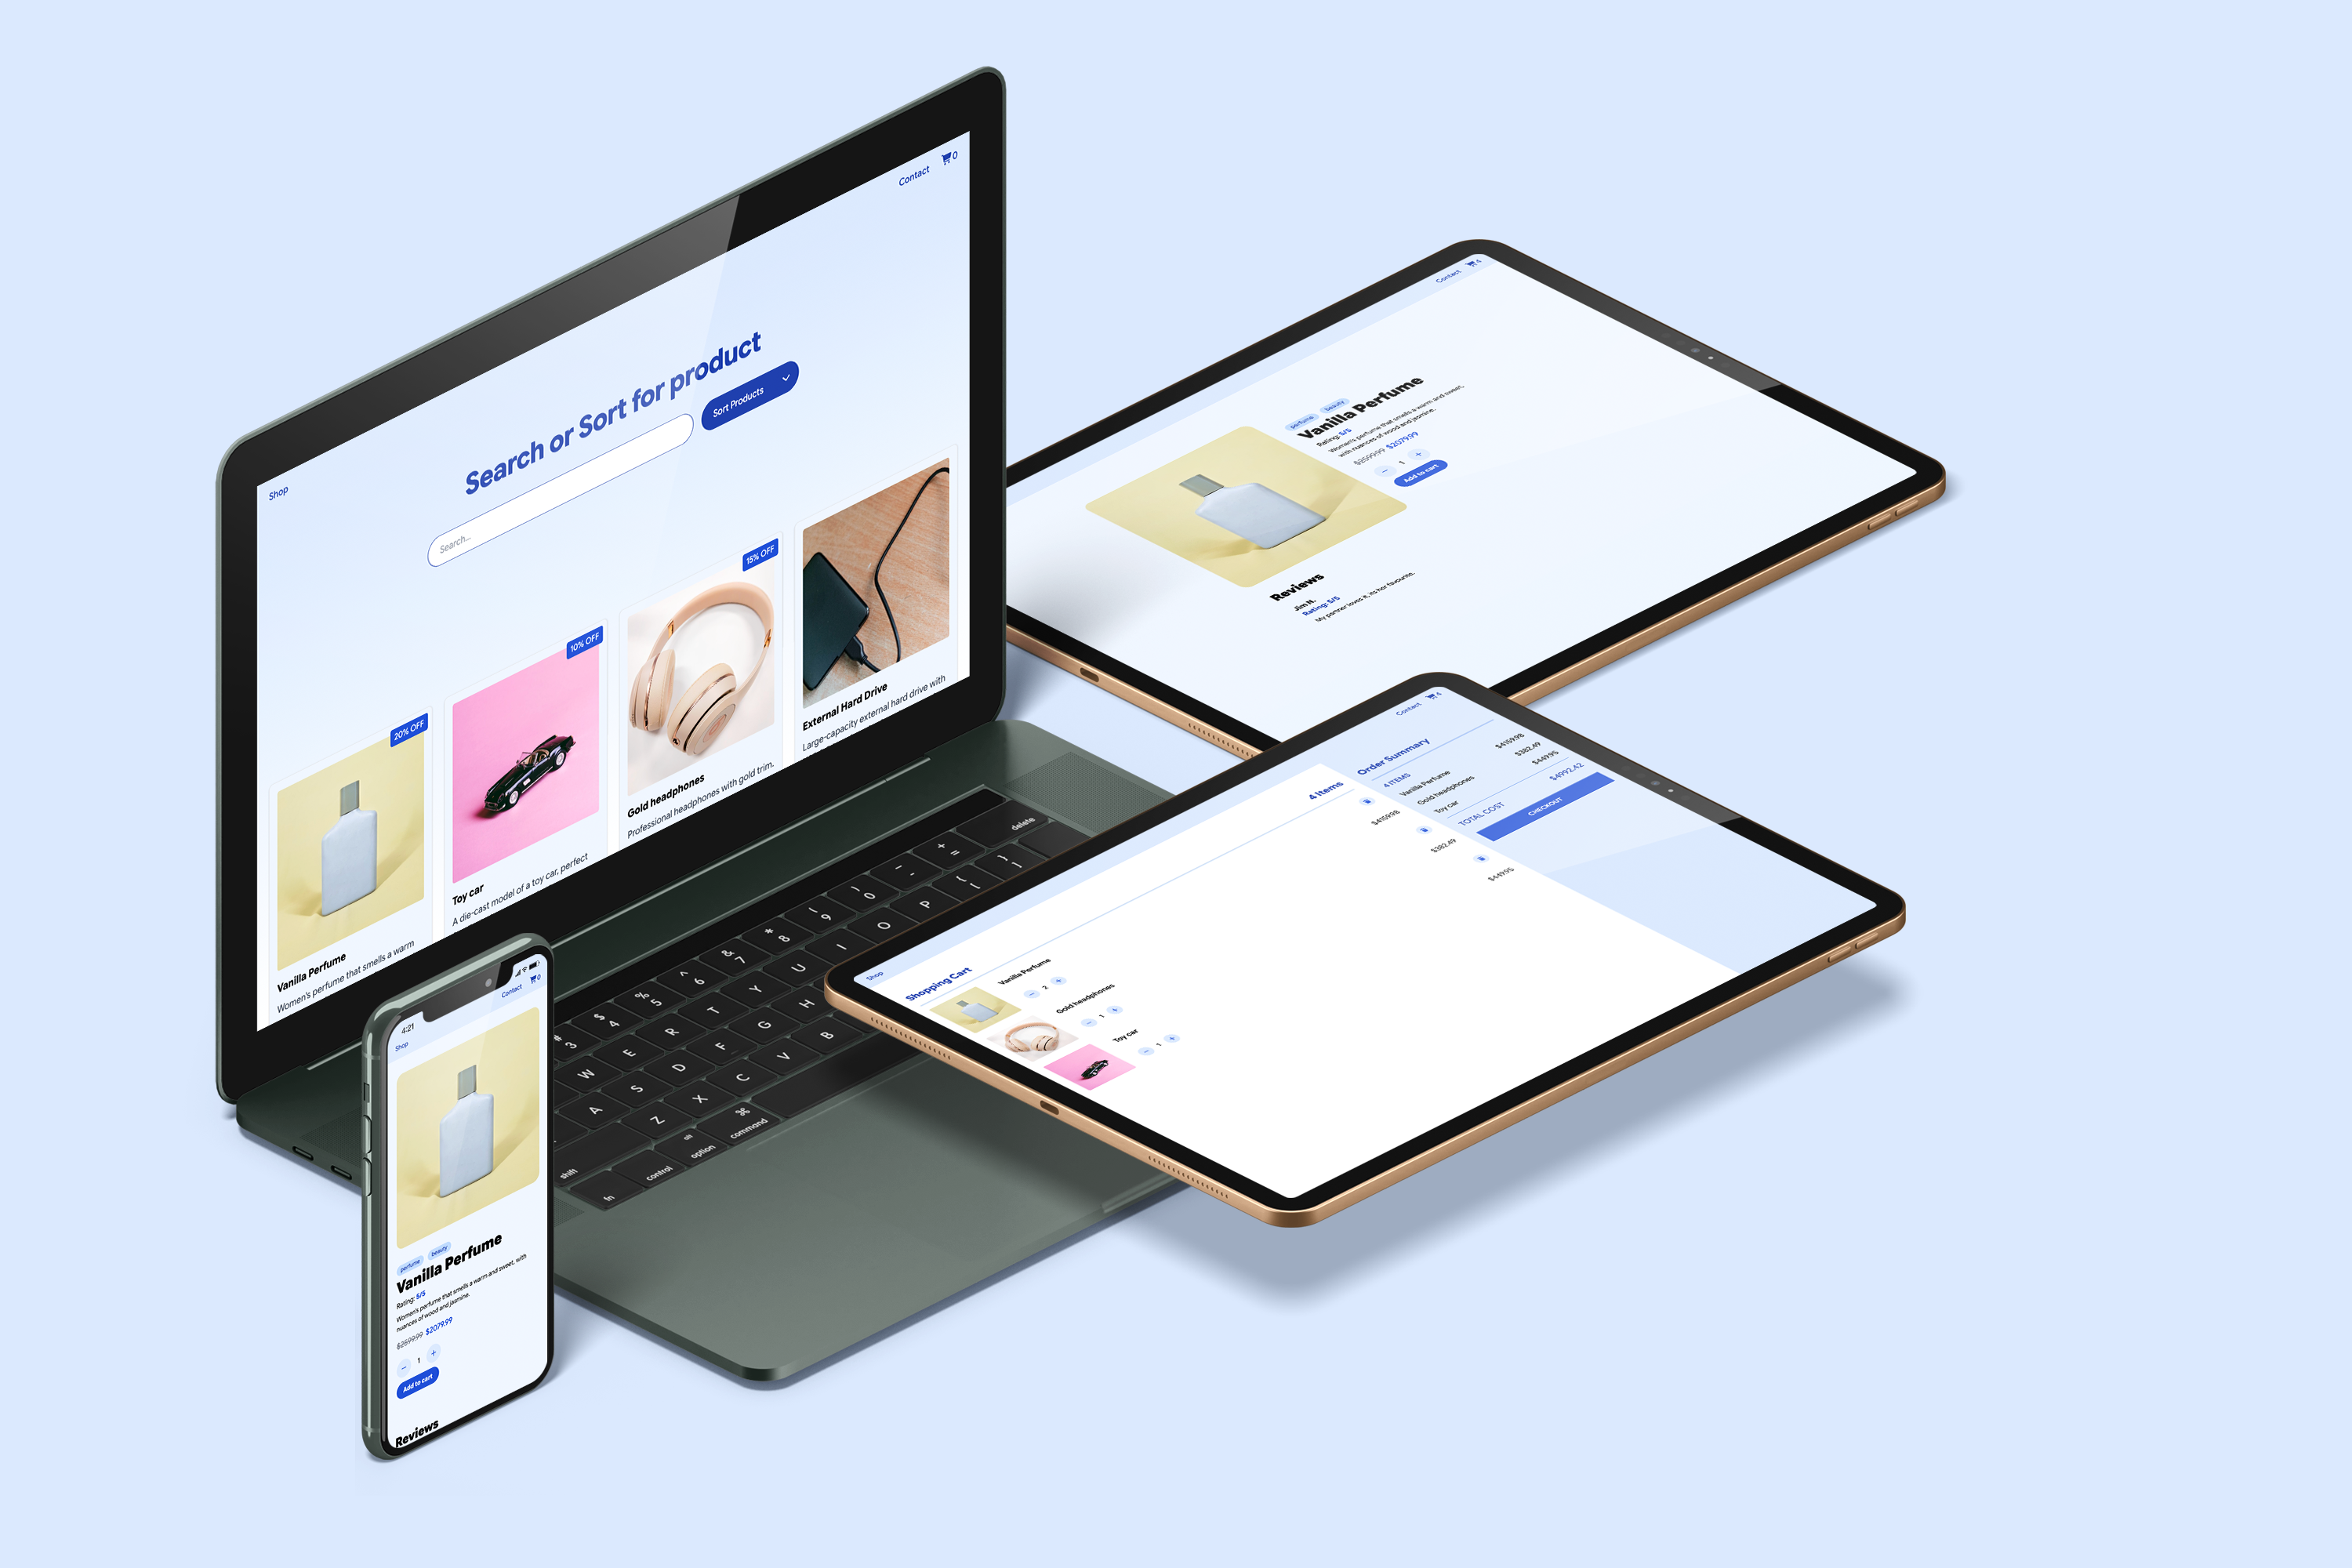
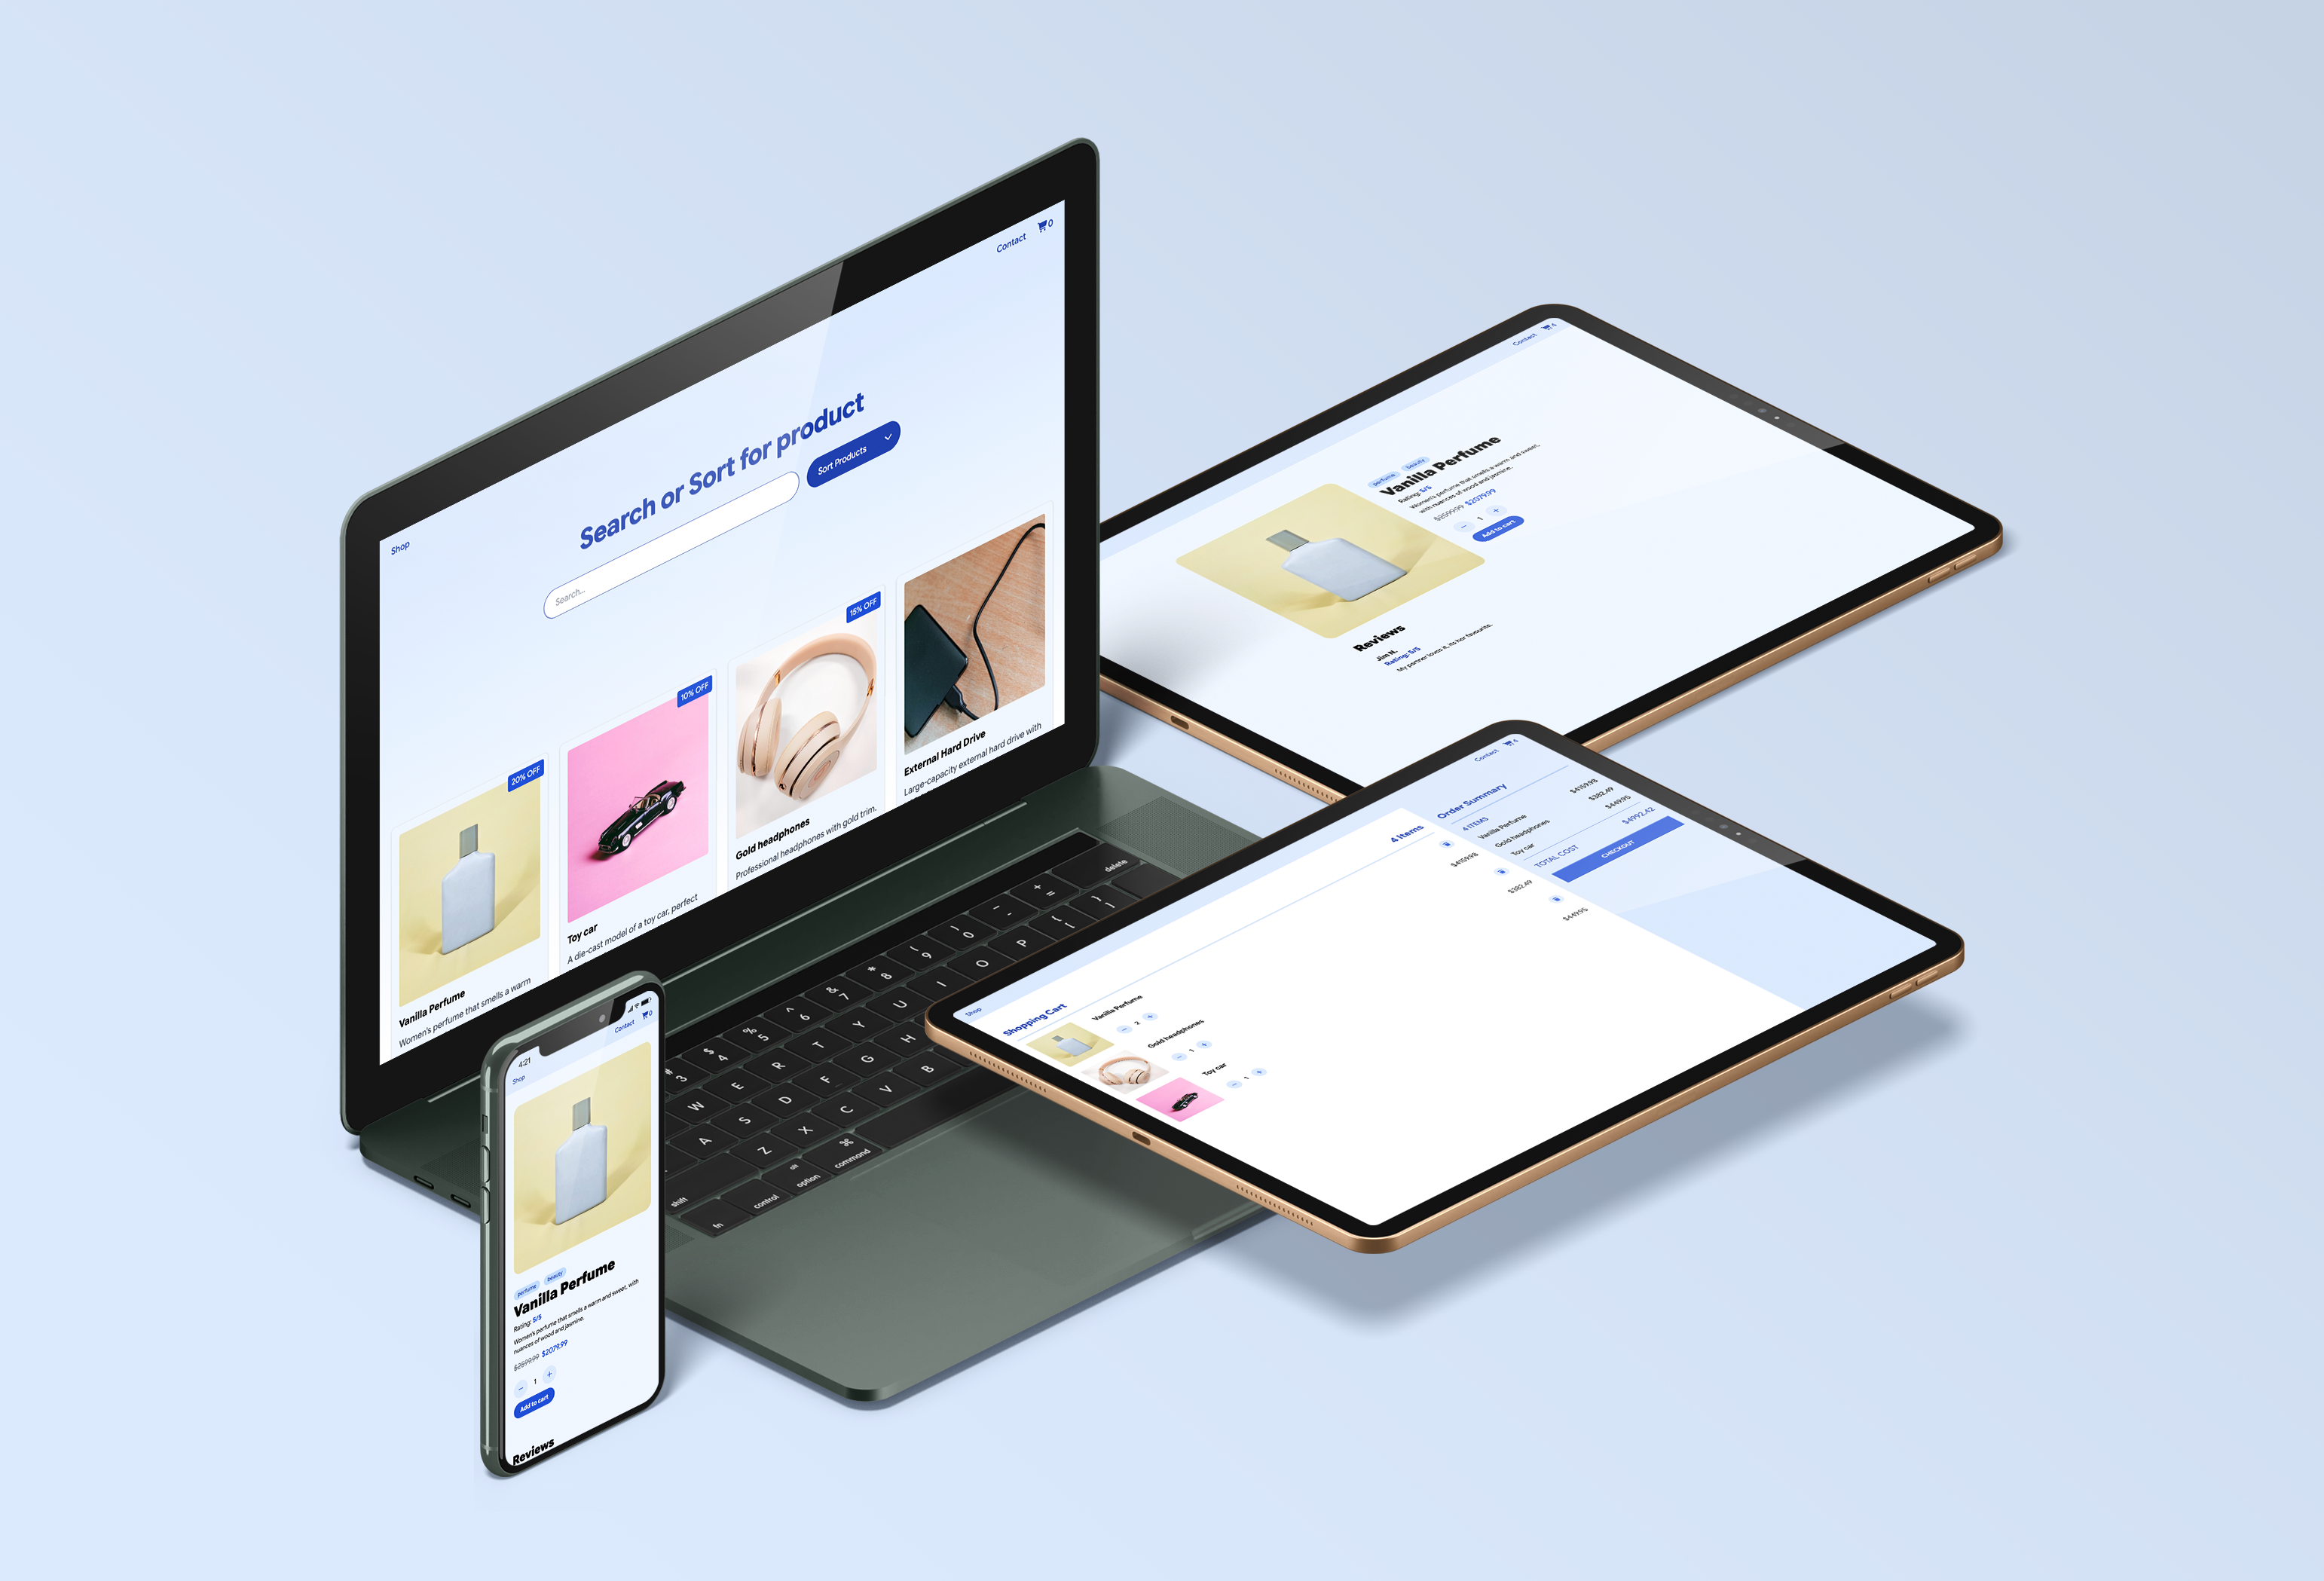
Finished creating and styling the online shop page.

Changed region(s): [[0.093, 0.031, 0.868, 0.93], [0.93, 0.0, 1.0, 0.093]]

diff --git a/src/pages/ShopPage.jsx b/src/pages/ShopPage.jsx
@@ -1,7 +1,242 @@
+import shopMockup from "../assets/shop/shop-no-background.png";
+import ProjectHero from "../components/ProjectHero";
+import image1 from "../assets/shop/image-1.png";
+import image2 from "../assets/shop/image-2.png";
+import image3 from "../assets/shop/image-3.png";
+import image4 from "../assets/shop/image-4.png";
+import ProjectNavCard from "../components/ProjectNavCard";
+import petifyMockup from "../assets/petify/petify-css-mockup.png";
+import bidverseMockup from "../assets/bidverse/bidverse-mockup.png";
+
 export default function ShopPage() {
   return (
     <div>
-      <h1 className="text-blue-500">Shop Page</h1>
+      <ProjectHero
+        hideLogo
+        title="Online Shop Website"
+        meta={
+          <>
+            <span className="font-bold">JavaScript Frameworks</span> • React •
+            Tailwind CSS • TypeScript • Vite • REST API
+          </>
+        }
+        description={[
+          "Shop is a functional ecommerce website built for my JavaScript Frameworks course assignment using React, TypeScript, Tailwind CSS, TanStack Router, and Vite.",
+          "The project focuses on fetching product data from the Noroff API and creating a complete shopping flow, including product browsing, search, sorting, product details, cart management, contact form, and checkout confirmation.",
+        ]}
+        image={shopMockup}
+        imageAlt="Online Shop mockup"
+        gradientTo="#3B82F6"
+        buttonVariant="shop"
+        links={[
+          {
+            label: "GITHUB REPO",
+            href: "https://github.com/NoroffFEU/jsfw-2025-v1-ina-js-frameworks",
+          },
+          {
+            label: "LIVE DEMO",
+            href: "https://js-frameworks-ca-ina.netlify.app/",
+          },
+        ]}
+      />
+
+      <div className="flex flex-col items-center mt-[250px] px-4 sm:px-10 gap-[250px]">
+        {/* Section 1 */}
+        <div className="flex justify-between items-start max-w-[1078px] w-full">
+          <div className="flex items-center gap-3">
+            <span className="inline-block font-display text-[55px] leading-none text-[#3B82F6]">
+              1.
+            </span>
+
+            <h2 className="w-[87px] text-xl leading-tight">Project Context</h2>
+          </div>
+
+          <div className="grid gap-5 max-w-[525px] w-full">
+            <p>
+              This project was created as part of the JavaScript Frameworks
+              course, where the main goal was to build a frontend application
+              using a modern React-based workflow.
+            </p>
+            <p>
+              For this assignment, I created a simple online shop that uses the
+              Noroff API to display products and support a functional shopping
+              experience. While the visual design was kept minimal, the project
+              gave me practice working with React components, TypeScript,
+              routing, API data, and shared cart state across multiple pages.
+            </p>
+          </div>
+        </div>
+
+        <section className="grid gap-[100px] max-w-[1078px] w-full">
+          <div className="flex justify-between items-start gap-[34px]">
+            {/* Section 2 */}
+            <div className="flex-1">
+              <div className="flex items-center gap-3">
+                <span className="inline-block font-display text-[55px] leading-none text-[#3B82F6]">
+                  2.
+                </span>
+
+                <h2 className="w-[125px] text-xl leading-tight">
+                  Product Browsing
+                </h2>
+              </div>
+
+              <p className="mt-8">
+                The home page was designed around product discovery.
+              </p>
+
+              <p className="mt-5">
+                Products are fetched from the Noroff API and displayed in a
+                responsive grid, with each card showing key information such as
+                product image, title, description, price, and discount labels
+                where relevant.
+              </p>
+
+              <p className="mt-5">
+                To make browsing easier, I added a search field and sorting
+                options so users can quickly narrow down the product list.
+                Products can be sorted by price from high to low, low to high,
+                or filtered to only show sale items.
+              </p>
+
+              <div className="mt-[100px]">
+                <img src={image1} className="object-cover w-full" />
+              </div>
+            </div>
+
+            {/* Section 3 */}
+            <div className="flex flex-col flex-1 h-full justify-between">
+              <div>
+                <div className="flex items-center gap-3">
+                  <span className="inline-block font-display text-[55px] leading-none text-[#3B82F6]">
+                    3.
+                  </span>
+
+                  <h2 className="w-[125px] text-xl leading-tight">
+                    Product Details
+                  </h2>
+                </div>
+
+                <p className="mt-8">
+                  Each product has its own detail page where users can view a
+                  larger product image, category tags, rating, description,
+                  original price, discounted price, quantity controls, and API
+                  reviews where available.
+                </p>
+
+                <p className="mt-5">
+                  The review section is read-only, but it helps make the product
+                  page feel more complete by displaying the review data returned
+                  from the API.
+                </p>
+              </div>
+
+              <div className="">
+                <img src={image2} className="object-cover w-full" />
+              </div>
+            </div>
+          </div>
+        </section>
+
+        {/* Section 4 */}
+        <div className="flex justify-between items-start max-w-[1078px] w-full mx-auto">
+          <div className="flex items-center gap-3">
+            <span className="inline-block font-display text-[55px] leading-none text-[#3B82F6]">
+              4.
+            </span>
+
+            <h2 className="w-[166px] text-xl leading-tight">
+              Cart & Checkout Flow
+            </h2>
+          </div>
+
+          <div className="grid gap-5 max-w-[525px] w-full">
+            <p>
+              The shopping cart was the main functional part of the project.
+            </p>
+            <p>
+              Users can add products to the cart, adjust quantities, remove
+              items, and view an order summary with the total cost. The cart
+              icon also updates based on the number of items added, helping
+              users keep track of their order while browsing.
+            </p>
+            <p>
+              The checkout flow ends with a simple payment success page,
+              creating a complete ecommerce journey from browsing products to
+              confirming an order.
+            </p>
+          </div>
+        </div>
+      </div>
+
+      <div className="flex justify-center bg-[#1D49C5]/50 py-[80px] w-full px-4 sm:px-10 mt-[100px]">
+        <div className="max-w-[1078px] w-full">
+          <img src={image3} alt="" className="w-full object-cover" />
+        </div>
+      </div>
+
+      <div className="flex flex-col items-center mt-[250px] px-4 sm:px-10 gap-[250px]">
+        {/* Section 5 */}
+        <section className="flex justify-between max-w-[1078px] w-full">
+          <div>
+            <div className="flex items-center gap-3">
+              <span className="inline-block font-display text-[55px] leading-none text-[#3B82F6]">
+                5.
+              </span>
+
+              <h2 className="w-[87px] text-xl leading-tight">Contact Form</h2>
+            </div>
+
+            <p className="mt-10 w-[400px]">
+              A contact page was also included as a simple form-based page,
+              giving the project a more complete shop structure beyond only
+              product and cart views.
+            </p>
+          </div>
+
+          <div className="max-w-[520px] w-full">
+            <img src={image4} alt="" className="w-full object-cover" />
+          </div>
+        </section>
+
+        {/* Reflection */}
+        <div className="flex gap-[30px]">
+          <h3 className="text-xl text-[#BFDBFE]">Reflection</h3>
+
+          <div className="grid gap-5 max-w-[550px] w-full flex-1">
+            <p>
+              This project helped me become more comfortable building a React
+              application with TypeScript, reusable components, API data, and
+              route-based pages.
+            </p>
+            <p>
+              Even though the design was kept simple, the assignment gave me
+              valuable practice creating a functional ecommerce flow and
+              managing shared cart behavior across the application.
+            </p>
+          </div>
+        </div>
+
+        <section className="flex w-full justify-center mb-20">
+          <div className="flex w-full max-w-[1300px] justify-between gap-[36px]">
+            <ProjectNavCard
+              to="/projects/bidverse"
+              image={bidverseMockup}
+              label="Previous Project"
+              title="Bidverse"
+              direction="previous"
+            />
+
+            <ProjectNavCard
+              to="/projects/petify"
+              image={petifyMockup}
+              label="Next Project"
+              title="Petify"
+              direction="next"
+            />
+          </div>
+        </section>
+      </div>
     </div>
   );
 }

diff --git a/src/App.jsx b/src/App.jsx
@@ -53,7 +53,7 @@ export default function App() {
         <Route
           path="/projects/shop"
           element={
-            <ProjectLayout className="bg-[#1D4ED8]">
+            <ProjectLayout className="bg-[#3B82F6]">
               <ShopPage />
             </ProjectLayout>
           }

diff --git a/src/pages/HolidazePage.jsx b/src/pages/HolidazePage.jsx
@@ -1,4 +1,4 @@
-import holidazeMockup from "../assets/no-background/holidaze-no-background.png";
+import holidazeMockup from "../assets/holidaze/holidaze-no-background.png";
 import holidazeLogo from "../assets/logos/holidaze-logo.svg";
 import ProjectHero from "../components/ProjectHero";
 import image1 from "../assets/holidaze/image-1.png";

diff --git a/src/pages/HomePage.jsx b/src/pages/HomePage.jsx
@@ -1,6 +1,6 @@
 import heroImage from "../assets/hero-image.png";
 import PortfolioSVG from "../assets/portfolio.svg?react";
-import holidazeMockup from "../assets/holidaze-mockup.png";
+import holidazeMockup from "../assets/holidaze/holidaze-mockup.png";
 import Tag from "../components/Tag";
 import Button from "../components/Button";
 